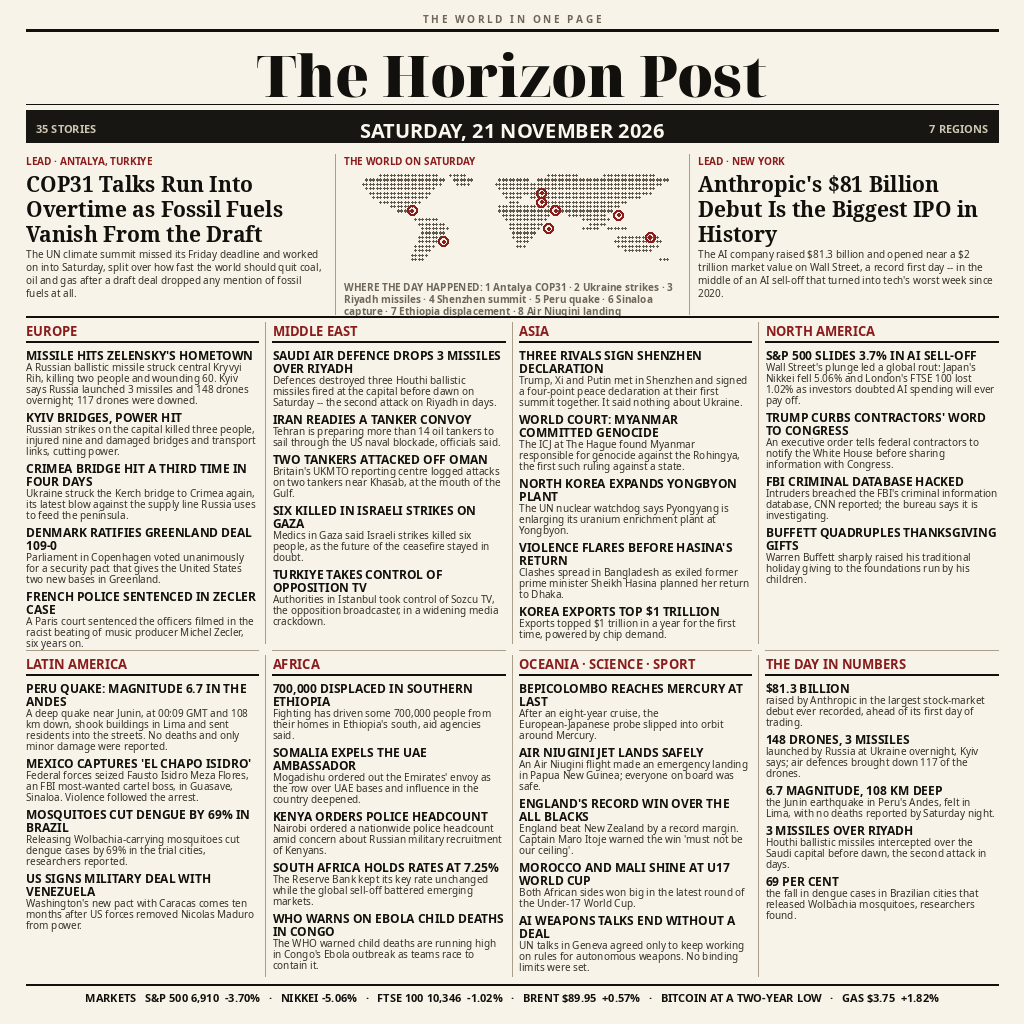
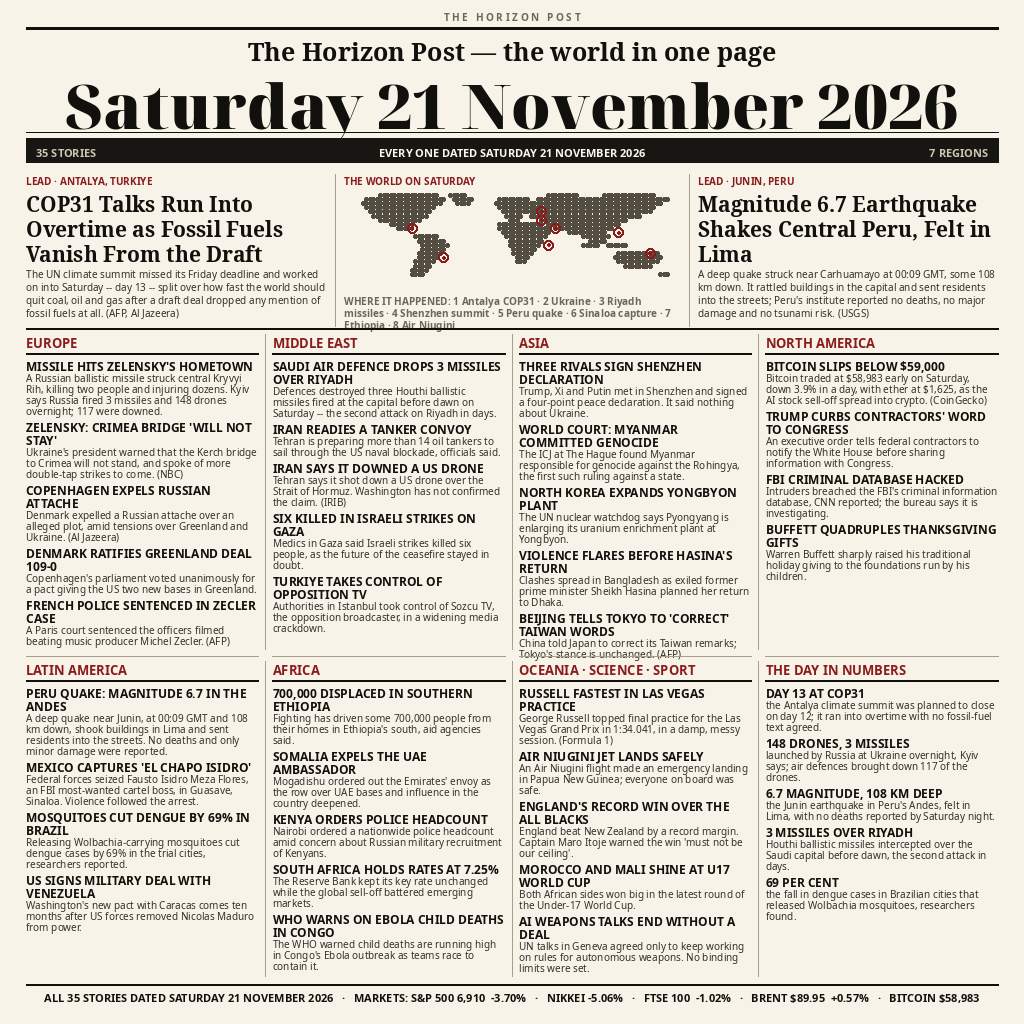
Adapt after top-of-field study: giant date masthead, Saturday-verified leads and stories

Changed region(s): [[0.0, 0.0, 1.0, 1.0]]

diff --git a/render.py b/render.py
@@ -33,6 +33,8 @@ def font(name, size):
 
 
 F_SERIF_BLACK = font("NotoSerifDisplay-Black.ttf", 57)
+F_DATE = font("NotoSerifDisplay-Black.ttf", 62)
+F_NAME = font("NotoSerif-Bold.ttf", 25)
 F_SERIF_BOLD = font("NotoSerif-Bold.ttf", 21)
 F_SERIF_BOLD_S = font("NotoSerif-Bold.ttf", 17)
 F_SANS_BOLD = font("NotoSans-Bold.ttf", 12)
@@ -71,19 +73,19 @@ LEADS = [
         "head": "COP31 Talks Run Into Overtime as Fossil Fuels Vanish From the Draft",
         "body": (
             "The UN climate summit missed its Friday deadline and worked on "
-            "into Saturday, split over how fast the world should quit coal, "
-            "oil and gas after a draft deal dropped any mention of fossil "
-            "fuels at all."
+            "into Saturday -- day 13 -- split over how fast the world "
+            "should quit coal, oil and gas after a draft deal dropped any "
+            "mention of fossil fuels at all. (AFP, Al Jazeera)"
         ),
     },
     {
-        "kicker": "LEAD · NEW YORK",
-        "head": "Anthropic's $81 Billion Debut Is the Biggest IPO in History",
+        "kicker": "LEAD · JUNIN, PERU",
+        "head": "Magnitude 6.7 Earthquake Shakes Central Peru, Felt in Lima",
         "body": (
-            "The AI company raised $81.3 billion and opened near a $2 "
-            "trillion market value on Wall Street, a record first day -- in "
-            "the middle of an AI sell-off that turned into tech's worst "
-            "week since 2020."
+            "A deep quake struck near Carhuamayo at 00:09 GMT, some "
+            "108 km down. It rattled buildings in the capital and sent "
+            "residents into the streets; Peru's institute reported no "
+            "deaths, no major damage and no tsunami risk. (USGS)"
         ),
     },
 ]
@@ -92,20 +94,21 @@ SECTIONS = [
     ("EUROPE", [
         ("MISSILE HITS ZELENSKY'S HOMETOWN",
          "A Russian ballistic missile struck central Kryvyi Rih, killing "
-         "two people and wounding 60. Kyiv says Russia launched 3 missiles "
-         "and 148 drones overnight; 117 drones were downed."),
-        ("KYIV BRIDGES, POWER HIT",
-         "Russian strikes on the capital killed three people, injured "
-         "nine and damaged bridges and transport links, cutting power."),
-        ("CRIMEA BRIDGE HIT A THIRD TIME IN FOUR DAYS",
-         "Ukraine struck the Kerch bridge to Crimea again, its latest "
-         "blow against the supply line Russia uses to feed the peninsula."),
+         "two people and injuring dozens. Kyiv says Russia fired 3 "
+         "missiles and 148 drones overnight; 117 were downed."),
+        ("ZELENSKY: CRIMEA BRIDGE 'WILL NOT STAY'",
+         "Ukraine's president warned that the Kerch bridge to Crimea "
+         "will not stand, and spoke of more double-tap strikes to "
+         "come. (NBC)"),
+        ("COPENHAGEN EXPELS RUSSIAN ATTACHE",
+         "Denmark expelled a Russian attache over an alleged plot, "
+         "amid tensions over Greenland and Ukraine. (Al Jazeera)"),
         ("DENMARK RATIFIES GREENLAND DEAL 109-0",
-         "Parliament in Copenhagen voted unanimously for a security pact "
-         "that gives the United States two new bases in Greenland."),
+         "Copenhagen's parliament voted unanimously for a pact "
+         "giving the US two new bases in Greenland."),
         ("FRENCH POLICE SENTENCED IN ZECLER CASE",
-         "A Paris court sentenced the officers filmed in the racist "
-         "beating of music producer Michel Zecler, six years on."),
+         "A Paris court sentenced the officers filmed beating "
+         "music producer Michel Zecler. (AFP)"),
     ]),
     ("MIDDLE EAST", [
         ("SAUDI AIR DEFENCE DROPS 3 MISSILES OVER RIYADH",
@@ -115,9 +118,9 @@ SECTIONS = [
         ("IRAN READIES A TANKER CONVOY",
          "Tehran is preparing more than 14 oil tankers to sail through "
          "the US naval blockade, officials said."),
-        ("TWO TANKERS ATTACKED OFF OMAN",
-         "Britain's UKMTO reporting centre logged attacks on two "
-         "tankers near Khasab, at the mouth of the Gulf."),
+        ("IRAN SAYS IT DOWNED A US DRONE",
+         "Tehran says it shot down a US drone over the Strait of "
+         "Hormuz. Washington has not confirmed the claim. (IRIB)"),
         ("SIX KILLED IN ISRAELI STRIKES ON GAZA",
          "Medics in Gaza said Israeli strikes killed six people, as "
          "the future of the ceasefire stayed in doubt."),
@@ -128,8 +131,7 @@ SECTIONS = [
     ("ASIA", [
         ("THREE RIVALS SIGN SHENZHEN DECLARATION",
          "Trump, Xi and Putin met in Shenzhen and signed a four-point "
-         "peace declaration at their first summit together. It said "
-         "nothing about Ukraine."),
+         "peace declaration. It said nothing about Ukraine."),
         ("WORLD COURT: MYANMAR COMMITTED GENOCIDE",
          "The ICJ at The Hague found Myanmar responsible for genocide "
          "against the Rohingya, the first such ruling against a state."),
@@ -139,15 +141,15 @@ SECTIONS = [
         ("VIOLENCE FLARES BEFORE HASINA'S RETURN",
          "Clashes spread in Bangladesh as exiled former prime "
          "minister Sheikh Hasina planned her return to Dhaka."),
-        ("KOREA EXPORTS TOP $1 TRILLION",
-         "Exports topped $1 trillion in a year for the first time, "
-         "powered by chip demand."),
+        ("BEIJING TELLS TOKYO TO 'CORRECT' TAIWAN WORDS",
+         "China told Japan to correct its Taiwan remarks; "
+         "Tokyo's stance is unchanged. (AFP)"),
     ]),
     ("NORTH AMERICA", [
-        ("S&P 500 SLIDES 3.7% IN AI SELL-OFF",
-         "Wall Street's plunge led a global rout: Japan's Nikkei fell "
-         "5.06% and London's FTSE 100 lost 1.02% as investors doubted "
-         "AI spending will ever pay off."),
+        ("BITCOIN SLIPS BELOW $59,000",
+         "Bitcoin traded at $58,983 early on Saturday, down 3.9% in "
+         "a day, with ether at $1,625, as the AI stock sell-off "
+         "spread into crypto. (CoinGecko)"),
         ("TRUMP CURBS CONTRACTORS' WORD TO CONGRESS",
          "An executive order tells federal contractors to notify the "
          "White House before sharing information with Congress."),
@@ -192,9 +194,10 @@ SECTIONS = [
          "Ebola outbreak as teams race to contain it."),
     ]),
     ("OCEANIA · SCIENCE · SPORT", [
-        ("BEPICOLOMBO REACHES MERCURY AT LAST",
-         "After an eight-year cruise, the European-Japanese probe "
-         "slipped into orbit around Mercury."),
+        ("RUSSELL FASTEST IN LAS VEGAS PRACTICE",
+         "George Russell topped final practice for the Las Vegas "
+         "Grand Prix in 1:34.041, in a damp, messy session. "
+         "(Formula 1)"),
         ("AIR NIUGINI JET LANDS SAFELY",
          "An Air Niugini flight made an emergency landing in Papua "
          "New Guinea; everyone on board was safe."),
@@ -209,9 +212,10 @@ SECTIONS = [
          "for autonomous weapons. No binding limits were set."),
     ]),
     ("THE DAY IN NUMBERS", [
-        ("$81.3 BILLION",
-         "raised by Anthropic in the largest stock-market debut "
-         "ever recorded, ahead of its first day of trading."),
+        ("DAY 13 AT COP31",
+         "the Antalya climate summit was planned to close on day "
+         "12; it ran into overtime with no fossil-fuel text "
+         "agreed."),
         ("148 DRONES, 3 MISSILES",
          "launched by Russia at Ukraine overnight, Kyiv says; air "
          "defences brought down 117 of the drones."),
@@ -227,9 +231,9 @@ SECTIONS = [
     ]),
 ]
 
-TICKER = ("MARKETS   S&P 500 6,910  -3.70%   ·   NIKKEI -5.06%   ·   "
-          "FTSE 100 10,346  -1.02%   ·   BRENT $89.95  +0.57%   ·   "
-          "BITCOIN AT A TWO-YEAR LOW   ·   GAS $3.75  +1.82%")
+TICKER = ("ALL 35 STORIES DATED SATURDAY 21 NOVEMBER 2026   ·   MARKETS: "
+          "S&P 500 6,910  -3.70%   ·   NIKKEI -5.06%   ·   FTSE 100  -1.02%   ·   "
+          "BRENT $89.95  +0.57%   ·   BITCOIN $58,983")
 
 # Dotted world map on a 96x24 grid (columns ~ longitude, rows ~
 # latitude). Each row lists the land spans as (first, last) columns.
@@ -269,21 +273,21 @@ MAP_DOTS = [
     (58, 13),   # southern Ethiopia
     (87, 15),   # Papua New Guinea
 ]
-MAP_CAPTION = ("WHERE THE DAY HAPPENED:  1 Antalya COP31  ·  2 Ukraine strikes  ·  "
+MAP_CAPTION = ("WHERE IT HAPPENED:  1 Antalya COP31  ·  2 Ukraine  ·  "
                "3 Riyadh missiles  ·  4 Shenzhen summit  ·  5 Peru quake  ·  "
-               "6 Sinaloa capture  ·  7 Ethiopia displacement  ·  8 Air Niugini landing")
+               "6 Sinaloa capture  ·  7 Ethiopia  ·  8 Air Niugini")
 
 
 def draw_map(draw, x, y, w, h):
     cell_w = w / MAP_COLS
     cell_h = h / MAP_NROWS
-    r = max(1.0, min(cell_w, cell_h) * 0.30)
+    r = max(1.0, min(cell_w, cell_h) * 0.55)
     for ri, spans in MAP_SPANS.items():
         for first, last in spans:
             for ci in range(first, last + 1):
                 cx = x + (ci + 0.5) * cell_w
                 cy = y + (ri + 0.5) * cell_h
-                draw.ellipse([cx - r, cy - r, cx + r, cy + r], fill=(96, 90, 78))
+                draw.ellipse([cx - r, cy - r, cx + r, cy + r], fill=(84, 78, 66))
     for ci, ri in MAP_DOTS:
         cx = x + (ci + 0.5) * cell_w
         cy = y + (ri + 0.5) * cell_h
@@ -307,7 +311,7 @@ def draw_lead(draw, x, y, w, lead):
 def draw_section(draw, x, y, w, title, stories):
     draw.text((x, y), title, font=F_SEC, fill=RED)
     draw.line([x, y + 19, x + w, y + 19], fill=INK, width=2)
-    y += 25
+    y += 24
     for head, body in stories:
         for line in wrap_px(draw, head, F_HEAD, w):
             draw.text((x, y), line, font=F_HEAD, fill=INK)
@@ -315,7 +319,7 @@ def draw_section(draw, x, y, w, title, stories):
         for line in wrap_px(draw, body, F_BODY, w):
             draw.text((x, y), line, font=F_BODY, fill=(52, 48, 40))
             y += 11
-        y += 5
+        y += 4
     return y
 
 
@@ -324,45 +328,50 @@ def main():
     draw = ImageDraw.Draw(img)
 
     # --- masthead ------------------------------------------------------
-    kicker = "T H E   W O R L D   I N   O N E   P A G E"
+    kicker = "T H E   H O R I Z O N   P O S T"
     kw = draw.textlength(kicker, font=F_SANS_BOLD_S)
-    draw.text(((W - kw) / 2, 12), kicker, font=F_SANS_BOLD_S, fill=GREY)
-    draw.line([MARGIN, 30, W - MARGIN, 30], fill=INK, width=3)
+    draw.text(((W - kw) / 2, 10), kicker, font=F_SANS_BOLD_S, fill=GREY)
+    draw.line([MARGIN, 28, W - MARGIN, 28], fill=INK, width=3)
 
-    name = "The Horizon Post"
-    nw = draw.textlength(name, font=F_SERIF_BLACK)
-    draw.text(((W - nw) / 2, 36), name, font=F_SERIF_BLACK, fill=INK)
-    draw.line([MARGIN, 104, W - MARGIN, 104], fill=INK, width=1)
+    name = "The Horizon Post — the world in one page"
+    nw = draw.textlength(name, font=F_NAME)
+    draw.text(((W - nw) / 2, 34), name, font=F_NAME, fill=INK)
 
-    # --- date band ------------------------------------------------------
-    draw.rectangle([MARGIN, 110, W - MARGIN, 142], fill=DARK)
-    date = "SATURDAY, 21 NOVEMBER 2026"
-    dw = draw.textlength(date, font=F_BAND)
-    draw.text(((W - dw) / 2, 116), date, font=F_BAND, fill=(250, 247, 238))
-    draw.text((MARGIN + 10, 121), "35 STORIES", font=F_BAND_S, fill=(206, 198, 178))
+    # the date is the headline: no reader can miss which day this is
+    date = "Saturday 21 November 2026"
+    dw = draw.textlength(date, font=F_DATE)
+    draw.text(((W - dw) / 2, 62), date, font=F_DATE, fill=INK)
+    draw.line([MARGIN, 132, W - MARGIN, 132], fill=INK, width=1)
+
+    # --- count band ------------------------------------------------------
+    draw.rectangle([MARGIN, 138, W - MARGIN, 162], fill=DARK)
+    draw.text((MARGIN + 10, 145), "35 STORIES", font=F_BAND_S, fill=(206, 198, 178))
+    mid = "EVERY ONE DATED SATURDAY 21 NOVEMBER 2026"
+    mw = draw.textlength(mid, font=F_BAND_S)
+    draw.text(((W - mw) / 2, 145), mid, font=F_BAND_S, fill=(250, 247, 238))
     r_txt = "7 REGIONS"
-    draw.text((W - MARGIN - 10 - draw.textlength(r_txt, font=F_BAND_S), 121),
+    draw.text((W - MARGIN - 10 - draw.textlength(r_txt, font=F_BAND_S), 145),
               r_txt, font=F_BAND_S, fill=(206, 198, 178))
 
     # --- leads + map row -------------------------------------------------
-    top = 154
+    top = 174
     lead_w = 300
     draw_lead(draw, MARGIN, top, lead_w, LEADS[0])
     map_x = MARGIN + lead_w + 18
     map_w = CW - 2 * lead_w - 36
     draw.text((map_x, top), "THE WORLD ON SATURDAY", font=F_KICK, fill=RED)
-    draw_map(draw, map_x, top + 15, map_w, 106)
+    draw_map(draw, map_x, top + 15, map_w, 100)
     cap_lines = wrap_px(draw, MAP_CAPTION, F_SANS_BOLD_S, map_w)
-    cy = top + 126
+    cy = top + 120
     for line in cap_lines:
         draw.text((map_x, cy), line, font=F_SANS_BOLD_S, fill=GREY)
         cy += 12
     draw_lead(draw, MARGIN + CW - lead_w, top, lead_w, LEADS[1])
-    draw.line([MARGIN + lead_w + 9, top, MARGIN + lead_w + 9, top + 160],
+    draw.line([MARGIN + lead_w + 9, top, MARGIN + lead_w + 9, top + 152],
               fill=HAIR, width=1)
-    draw.line([MARGIN + CW - lead_w - 9, top, MARGIN + CW - lead_w - 9, top + 160],
+    draw.line([MARGIN + CW - lead_w - 9, top, MARGIN + CW - lead_w - 9, top + 152],
               fill=HAIR, width=1)
-    grid_top = top + 168
+    grid_top = top + 160
     draw.line([MARGIN, grid_top - 6, W - MARGIN, grid_top - 6], fill=INK, width=2)
 
     # --- regional grid: 4 columns x 2 rows -------------------------------

diff --git a/README.md b/README.md
@@ -13,8 +13,10 @@ sum up the world's news of Saturday 21 November 2026 in one image.
 A complete newspaper front page for the day, drawn by code:
 
 - **Two leads** — the COP31 climate talks in Antalya running into
-  overtime after fossil fuels vanished from the draft, and Anthropic's
-  $81.3 billion stock-market debut, the biggest IPO in history.
+  overtime (day 13) after fossil fuels vanished from the draft, and
+  the magnitude 6.7 earthquake in Peru's Andes, felt in Lima. The
+  date itself is the page's biggest headline, and every story is
+  dated Saturday 21 November 2026.
 - **A dotted world map** with the day's eight biggest datelines ringed.
 - **35 stories across 7 regions** — Europe, the Middle East, Asia,
   North America, Latin America, Africa, and Oceania with science and
